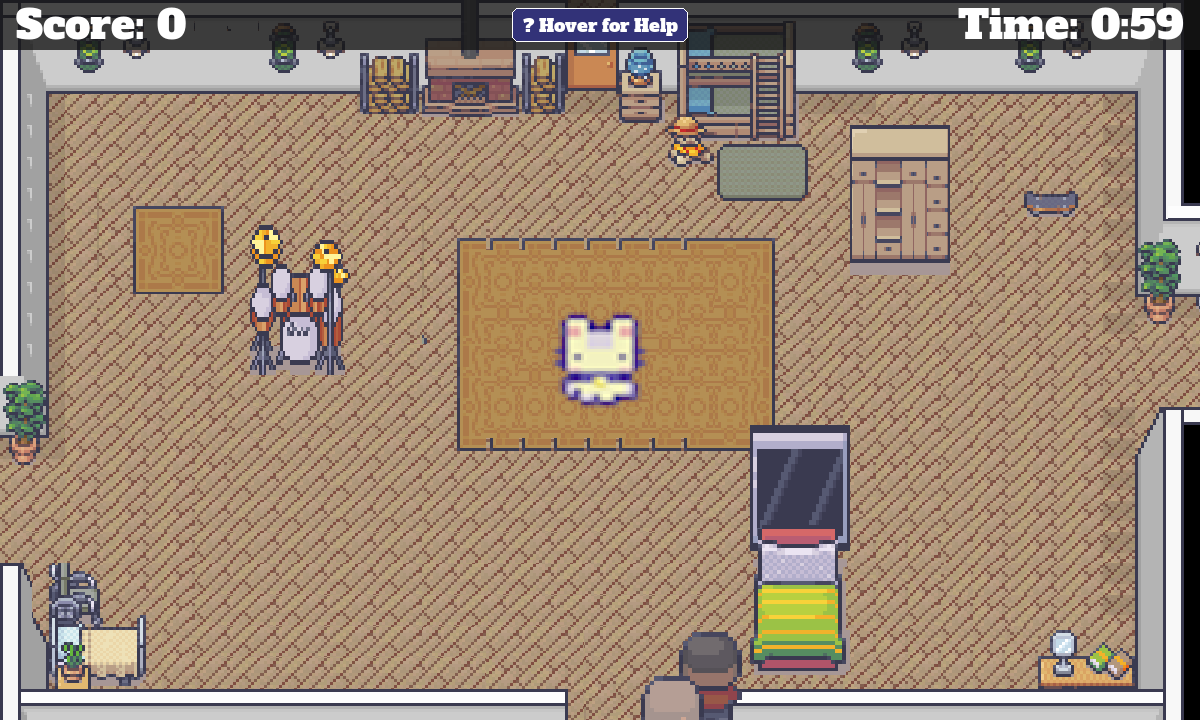
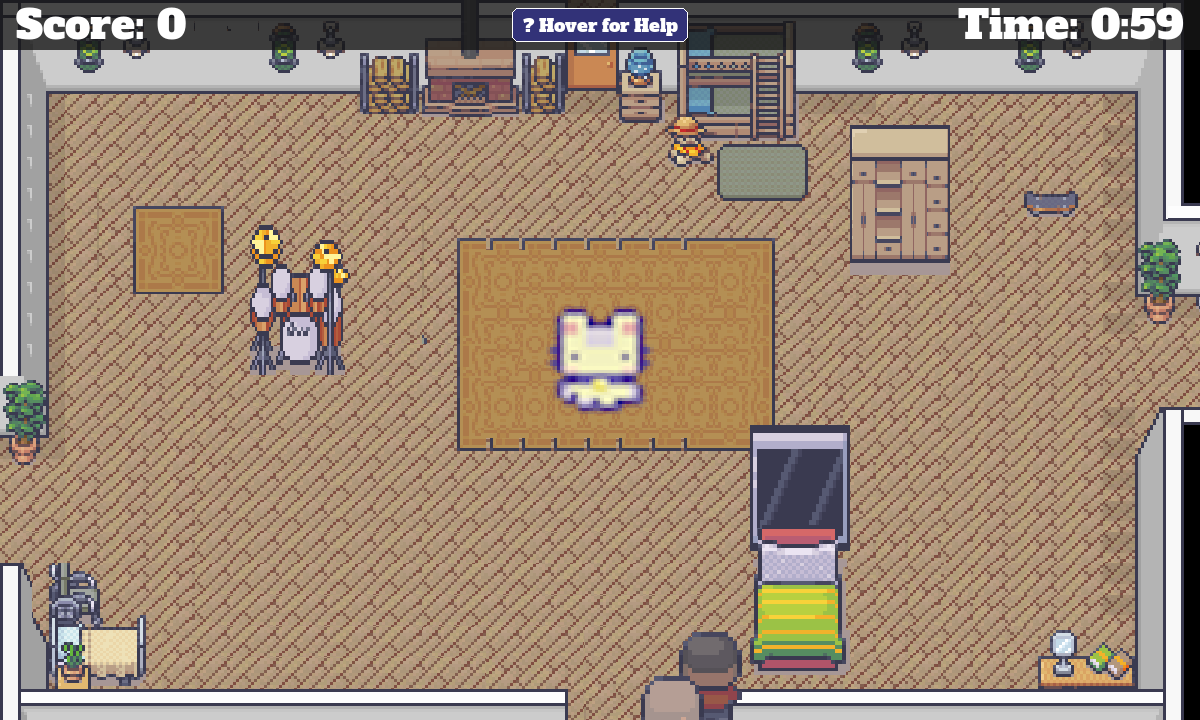
fix(art): bump Sally to 3/4 of NPC size (108px render)
Per user: Sally a bit bigger relative to tenants. PLAYER_RENDER_SIZE 96->108
(NPC_RENDER_SIZE stays 144), so the dog is now 3/4 the human height. Hitboxes
unchanged. 126 tests pass.

Changed region(s): [[0.4625, 0.4278, 0.555, 0.5806]]

diff --git a/game/config.py b/game/config.py
@@ -42,10 +42,10 @@ CAPTION = "ChocolateThunder2: ElectricBoogaloo"
 LEVEL_SECONDS = 60          # countdown per level
 PLAYER_SPEED = 5            # px/frame toward the click target
 PLAYER_SIZE = (40, 40)      # Sally's hitbox (collision footprint — kept small/nimble)
-PLAYER_RENDER_SIZE = (96, 96)   # Sally drawn size (a dog ~2/3 of an NPC)
+PLAYER_RENDER_SIZE = (108, 108)  # Sally drawn size (a dog ~3/4 of an NPC)
 NPC_SPEED = 2.2
 NPC_SIZE = (60, 60)         # tenant hitbox (catch box) — larger body than Sally
-NPC_RENDER_SIZE = (144, 144)    # tenant drawn size (a person, Sally is 2/3 of this)
+NPC_RENDER_SIZE = (144, 144)    # tenant drawn size (a person, Sally is 3/4 of this)
 NPC_CHASE_RADIUS = 300      # start chasing within this distance
 NUM_OBSTACLES = 4
 OBSTACLE_SIZE = (100, 150)

diff --git a/.claude/changelog.md b/.claude/changelog.md
@@ -21,7 +21,7 @@ All notable changes to ChocolateThunder2: ElectricBoogaloo are documented here.
 - **Realistic character proportions**: decoupled drawn size from the collision hitbox —
   `PLAYER_RENDER_SIZE` (96) and `NPC_RENDER_SIZE` (144) drive the sprite while
   `PLAYER_SIZE`/`NPC_SIZE` remain the hitboxes (gameplay feel unchanged). Sally (dog) is
-  2/3 the NPC size; tenants now read human-height against the furniture. Affects both art sets.
+  3/4 the NPC size; tenants now read human-height against the furniture. Affects both art sets.
 
 ### Verified
 - 125 tests pass (original mode); in-engine render of all 4 levels under `CT2_ART_SET=pixellab`
